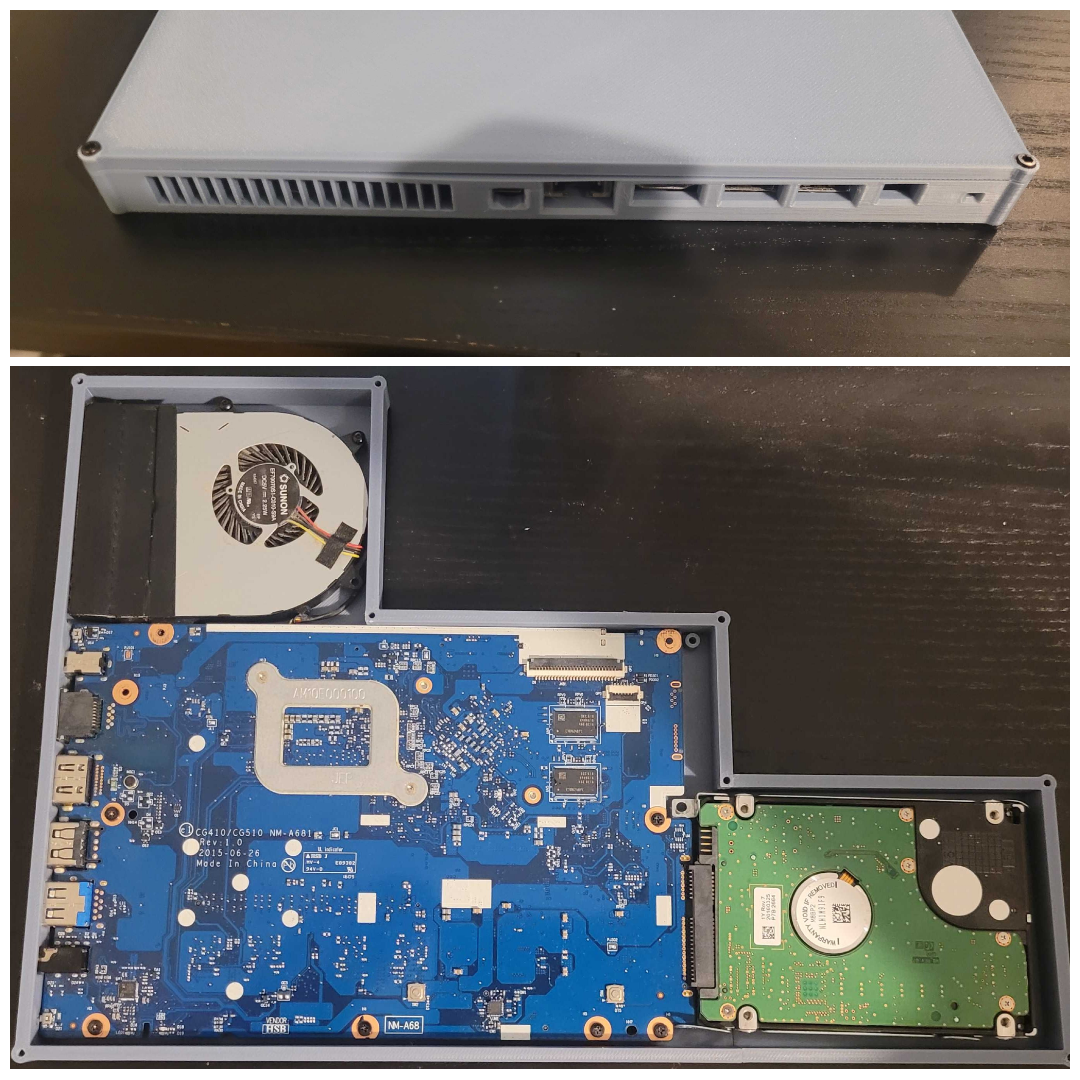
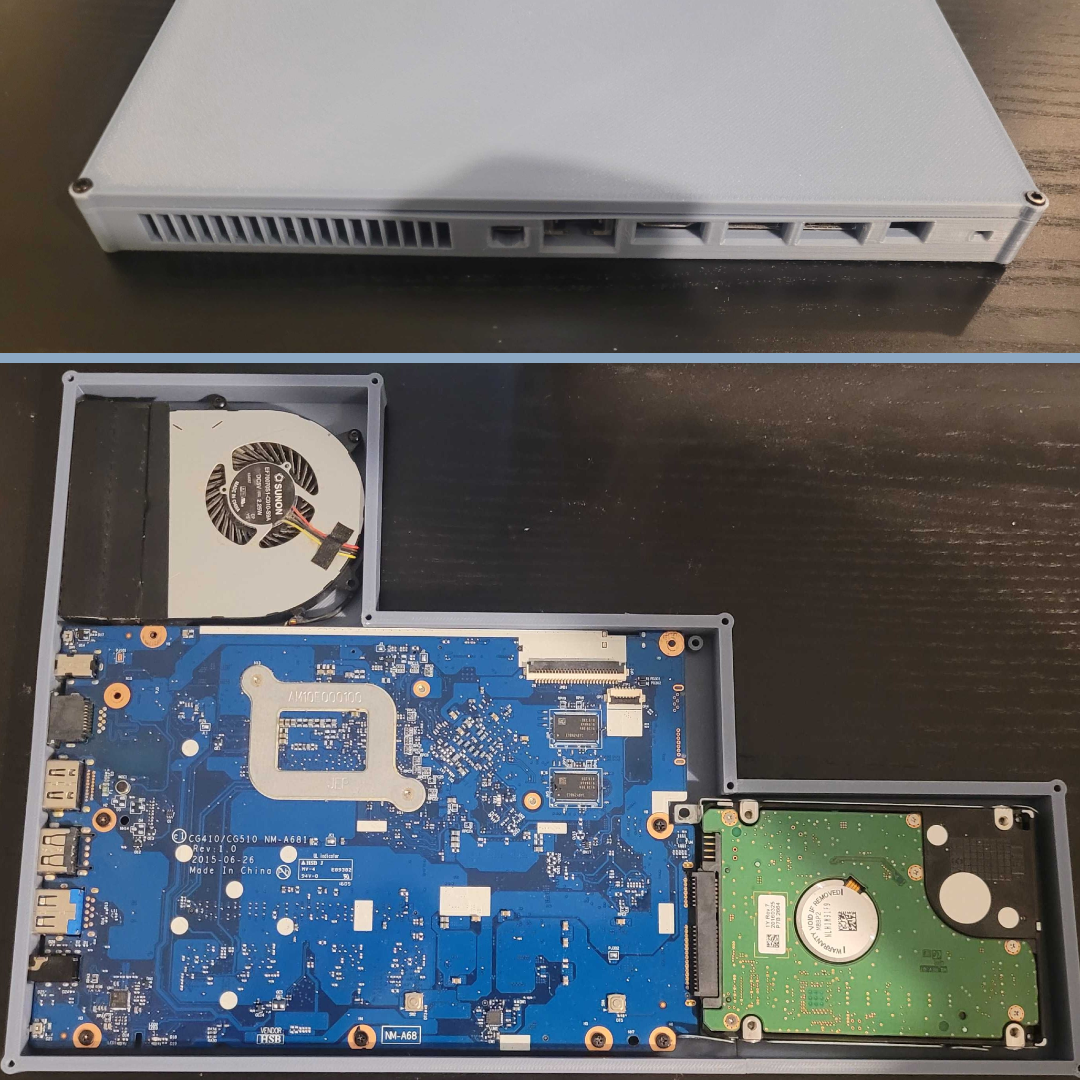
project and about update

diff --git a/lang/da.php b/lang/da.php
@@ -63,6 +63,11 @@ return [
     "p_gmtk2025_text" => "Dette projekt er lavet som en del af Game Maker's Toolkit Game Jam 2025, hvor jeg deltog alene. En konkurrence, hvor man på 96 timer skal producere et spil fra idé til færdigt produkt ud fra et tema.
     Temaet til denne game jam var 'Loop', og jeg valgte derfor at lave et spil, hvor man styrer op til fire tog og skal sørge for, at de samler passagerer op og leverer dem til deres destination, og man bliver nødt til at holde overblik og være hurtig til at reagere for at fikse skinner og sørge for, at togene standser de rigtige steder.
     Spillet er lavet i GameMaker Studio 2, hvor jeg selv har udviklet alle spilmekanikker samt lavet alle grafiske elementer.",
+    //techathon 2026
+    "p_tech26_title" => "Techathon 2026 - Best Concept/Product",
+    "p_tech26_text" => "I november 2026 deltog jeg sammen med min studiegruppe i et hackathon i Jelling. Opgaven var at komme op med en idé til en udstilling i Kongernes Jelling ved hjælp af Bluetooth. Vi tænkte: 'Hvad er bedre end at kunne snakke med Bluetooth himself?' og lavede derfor Heimdalls horn, Gjallarhornet.
+    Ved bestemte udstillinger ringede Harald Blåtand til én og fortalte om dem. Vi havde også koblet hornet til Gemini API'et, så man kunne have en samtale med Harald.
+    Efter 48 timers intenst og hårdt arbejde vandt vi en af de fire kategorier, 'Best Concept/Product', og det er vi meget stolte af.",
 
     // Background page
     "bg_education" => "Uddannelse",
@@ -176,6 +181,9 @@ return [
     Derudover har både jeg og min forlovede en Suzuki DM50 Samurai, som jeg passer og plejer, så de kan komme på tur rundt i Jylland om sommeren, både med Kirsten og mine kammerater.",
     "a_nature_title" => "Natur & Vildt",
     "a_nature_text" => "Jeg elsker naturen og den friske luft, og jeg kommer gerne udenfor, når jeg har mulighed for det. Derfor har jeg taget jagttegn, som jeg bruger til at komme ud i skoven og nyde de kolde vintermorgener og tidlige sommermorgener. Nogle gange tager jeg af sted alene, andre gange sammen med kammerater.",
+    "a_computer_title" => "Foran Skærmen",
+    "a_computer_text" => "Jeg bruger meget tid foran computeren. Det er her, de fleste af mine projekter tager form, men det er også her, jeg spiller. Jeg kører simulatorløb i både rallybiler og Le Mans-biler, og jeg kan godt lide de gode historier i singleplayer-spil.
+    I multiplayer foretrækker jeg de mere skøre og sjove spil, som jeg spiller sammen med mine kammerater. De bor rundt omkring i hele Danmark, så onlineverdenen hjælper os med at holde kontakten og have det sjovt sammen på trods af afstanden.",
 
     //Contact
     "c_title" => "Kontakt",

diff --git a/lang/en.php b/lang/en.php
@@ -63,6 +63,10 @@ return [
     "p_gmtk2025_text" => "This project was made as part of Game Maker's Toolkit Game Jam 2025, where I participated alone. It is a competition where you have to produce a game from idea to finished product in 96 hours, based on a theme.
     The theme for this game jam was 'Loop', so I chose to make a game where you control up to four trains and have to make sure they pick up passengers and deliver them to their destination, and you have to keep an overview and react quickly to fix tracks and make sure the trains stop at the right places.
     The game was made in GameMaker Studio 2, where I developed all the game mechanics myself as well as made all the graphical elements.",
+    // techathon 2026
+    "p_tech26_text" => "In November 2026, my study group and I took part in a hackathon in Jelling. The task was to come up with an idea for an exhibition at the Kongernes Jelling museum using Bluetooth. We thought, 'What's better than being able to talk to Bluetooth himself?' and so we built Heimdall's horn, Gjallarhorn.
+    At certain exhibits, Harald Bluetooth would call you and tell you about them. We also connected the horn to the Gemini API, so you could have a conversation with Harald.
+    After 48 hours of intense, hard work, we won one of the four categories, 'Best Concept/Product', and we're very proud of it.",
 
     // Background page
     "bg_education" => "Education",
@@ -176,6 +180,9 @@ return [
     In addition, both my fiancée and I have a Suzuki DM50 Samurai, which I maintain and look after so they can go on trips around Jutland in the summer, both with Kirsten and with my friends.",
     "a_nature_title" => "Nature & Wildlife",
     "a_nature_text" => "I love nature and the fresh air, and I happily go outside whenever I get the chance. That is why I have taken a hunting licence, which I use to get out into the forest and enjoy the cold winter mornings and early summer mornings. Sometimes I go out alone, other times with friends.",
+    "a_computer_title" => "In Front of the Screen",
+    "a_computer_text" => "I spend a lot of time at my computer. It's where most of my projects take shape, but it's also where I play games. I do sim racing, both in rally cars and Le Mans cars, and I enjoy the good stories in single-player games.
+    In multiplayer I prefer the goofier, more fun games, which I play with my friends. They live all over Denmark, so the online world helps us stay in touch and have fun together despite the distance.",
 
     //Contact
     "c_title" => "Contact",

diff --git a/pages/projects.php b/pages/projects.php
@@ -36,6 +36,15 @@
     </div>
 
     <!--projects-->
+    <!--techathon 2026-->
+    <div class="project">
+        <div class="projectDescription">
+            <h1 class="projectTitle" onclick="window.open('https://github.com/MadelaineNat/Techathon', '_blank')"><?= t('p_tech26_title') ?></h1>
+            <p class="projectText"><?= t('p_tech26_text') ?></p>
+        </div>
+        <img src="images\projects\techathon\horn.jpg" alt="Photo of the horn which one 'Best Concept/Product'.">
+    </div>
+
     <!--weatherstaion-->
     <div class="project">
         <img src="images\projects\weather_station\weather_station_prototype.jpg" alt="Photo of fthe weather station prototype.">

diff --git a/pages/about.php b/pages/about.php
@@ -65,4 +65,12 @@
         </div>
         <img src="images\about\jagt.jpg" alt="Image of me with my first deer from hunting.">
     </div>
+
+    <div class="about">
+        <img src="images\about\pc.png" alt="Image showing different computer hobbies">
+        <div class="aboutDescription">
+            <h1 class="aboutTitle"><?= t('a_computer_title') ?></h1>
+            <p class="aboutText"><?= t('a_computer_text') ?></p>
+        </div>
+    </div>
 </div>
